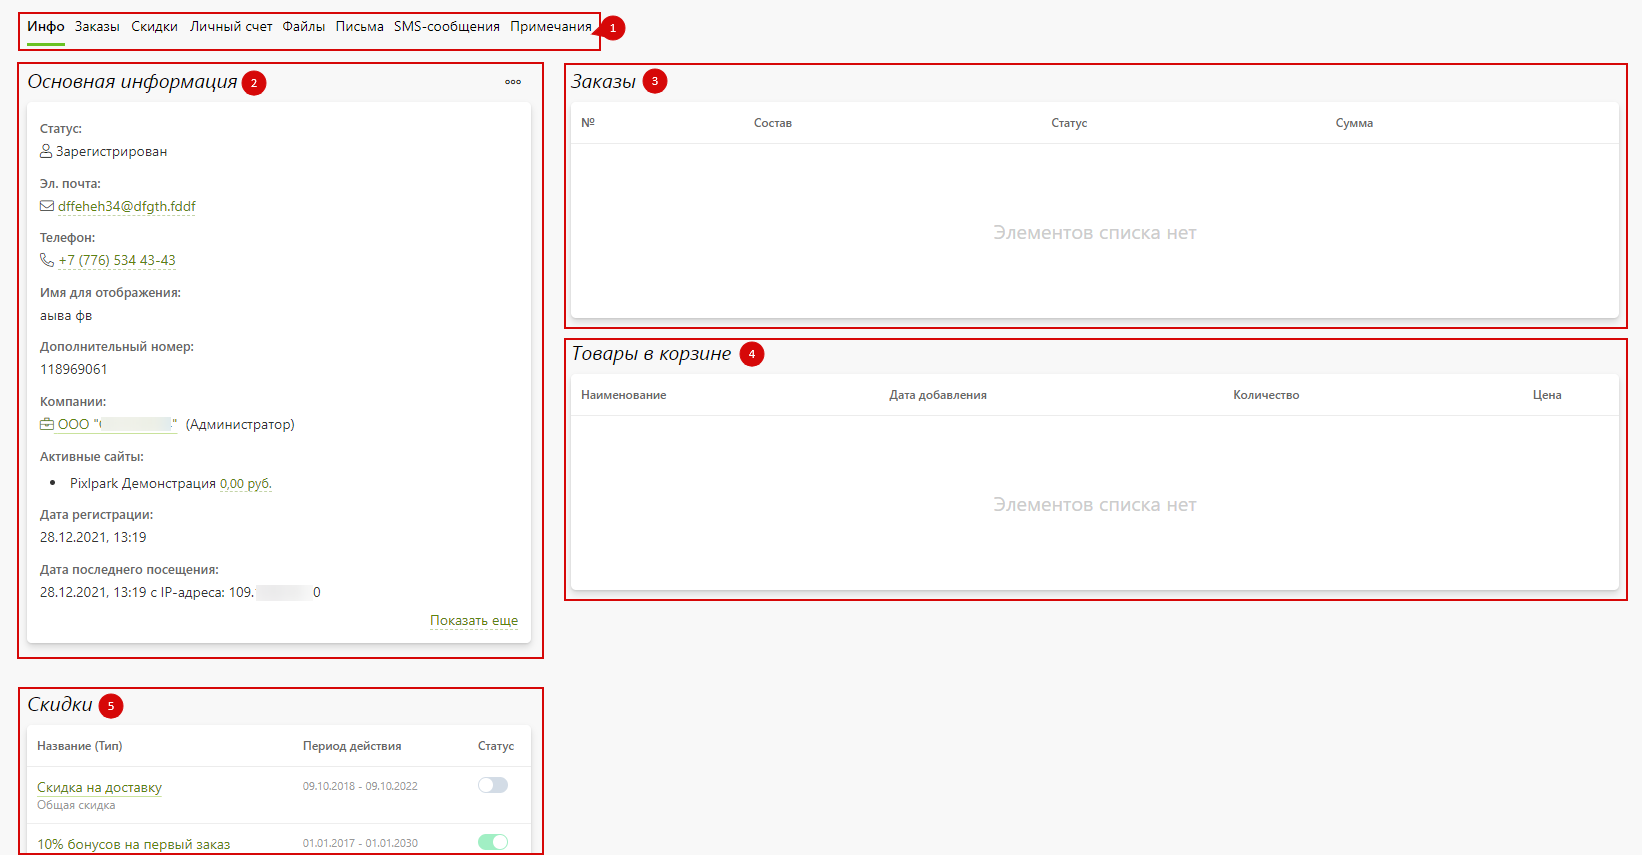
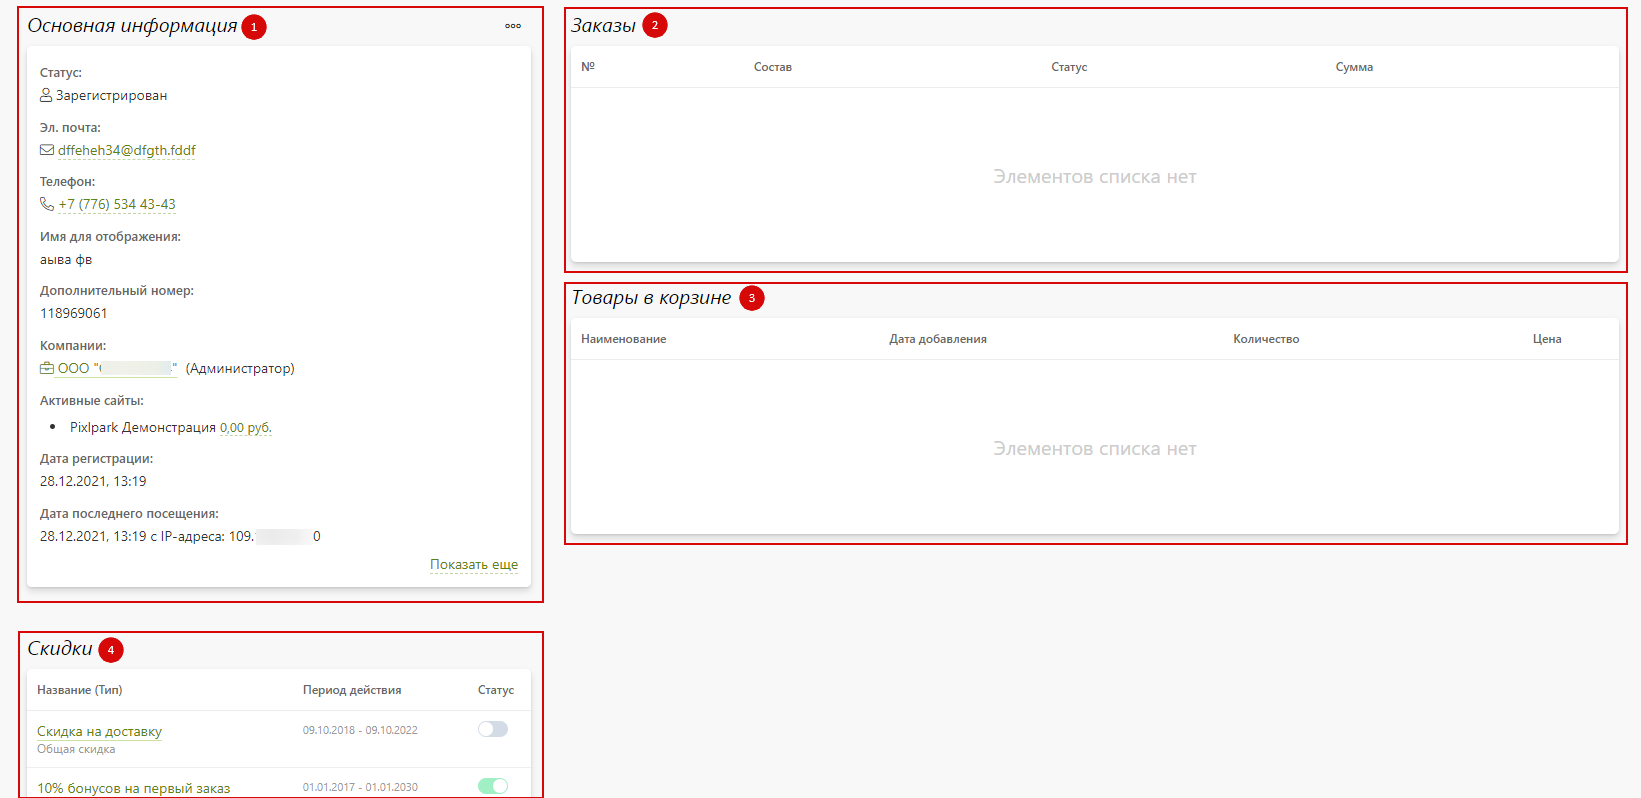
убрал Навигацию

diff --git a/docs/customers/b2c.md b/docs/customers/b2c.md
@@ -1,27 +1,7 @@
 # Профиль клиента
 
 ![](../_media/customer/customer02.png ':size=70%')
-## 1. Навигация по профилю, вкладки:
-* **Инфо** - основная информация о клиенте.
-* **Заказы** - список заказов клиента.
-* **Скидки** - скидки, доступные клиенту.
-* **Личный счёт** - история поступлений и списаний средств с личного счёта клиента.
-* **Файлы** - список загруженных клиентом файлов с возможностью просмотра и скачивания.
-    - Загруженные файлы.
-    - Удалённые файлы.
-* **Письма** - список отправленных клиенту уведомлений по e-mail почте с возможностью просмотра.
-    - Тема письма.
-    - Дата создания.
-    - Дата изменения.
-    - Статус.
-* **SMS-сообщения** - список отправленных клиенту уведомлений по SMS с возможностью просмотра.
-    - Номер получателя.
-    - Текст сообщения.
-    - Дата изменения.
-    - Статус.
-* **Примечания** - список комментариев относительно клиента, оставленных сотрудниками компании. Доступные только пользователям админ-панели.
-
-## 2. Основная информация
+## 1. Основная информация
 * **Статус**
     + Зарегистрирован - клиент зарегистрирован.
     + Проверен - клиент успешно прошел проверку.
@@ -38,7 +18,7 @@
 * **Дата регистрации** - дата регистрации клиента на сайте или в приложении.
 * **Дата последнего посещения** - дата и IP-адрес последнего посещения сайта или приложения.
 
-## 3. Заказы
+## 2. Заказы
 * Список заказов клиента:
     + **Номер** заказа.
     + **Состав** заказа.
@@ -48,14 +28,14 @@
     + Фильтр по оплате.
     + Фильтр по статусу.
 
-## 4. Товары в корзине
+## 3. Товары в корзине
 * Список товаров, находящихся у клиента в корзине сайта:
     + **Наименование** товара.
     + **Дата добавления** в корзину.
     + **Количество** товара.
     + **Цена** за всю позицию без учёта скидки.
 
-## 5. Скидки
+## 4. Скидки
 * Список доступных скидок клиенту. Не отображаются "Просроченные" скидки.
     + **Название (тип)** скидки.
     + **Период действия** скидки.
@@ -64,7 +44,7 @@
     + **Количество применений**.
     + **Значения** - указывает размер скидки.
 
-## 6. Личный счет
+## 5. Личный счет
 1. **Фильтр** сайта, по которому сверять личный счёт клиента.
 2. **Дата** операции.
 3. **Примечание** операции.
@@ -72,8 +52,24 @@
 5. **Баланс** счёта после проведения операции.
 6. Ссылка для создания операции пополнения или списания средств.
 
-## 7. Партнёр
+## 6. Партнёр
 * Активно, если клиент является партнёром.
     - Основная информация.
     - Настройка выплаты.
     - Правила выплаты.
+
+## 7. Остальные вкладки
+* **Файлы** - список загруженных клиентом файлов с возможностью просмотра и скачивания.
+    - Загруженные файлы.
+    - Удалённые файлы.
+* **Письма** - список отправленных клиенту уведомлений по e-mail почте с возможностью просмотра.
+    - Тема письма.
+    - Дата создания.
+    - Дата изменения.
+    - Статус.
+* **SMS-сообщения** - список отправленных клиенту уведомлений по SMS с возможностью просмотра.
+    - Номер получателя.
+    - Текст сообщения.
+    - Дата изменения.
+    - Статус.
+* **Примечания** - список комментариев относительно клиента, оставленных сотрудниками компании. Доступные только пользователям админ-панели.
